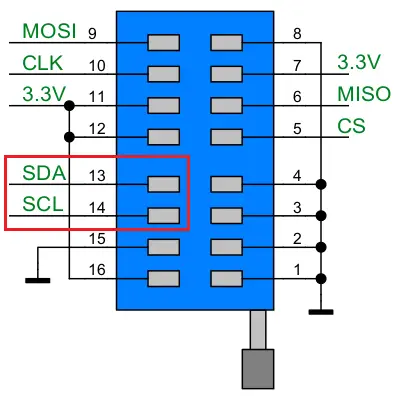
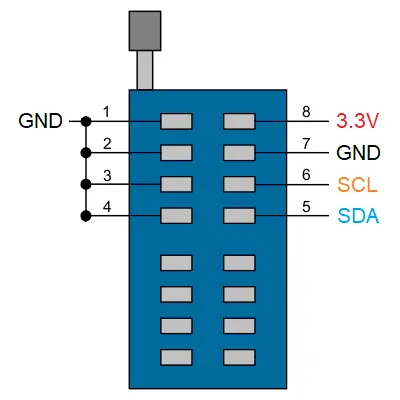
Update sigmastar-unbrick.md

diff --git a/en/sigmastar-unbrick.md b/en/sigmastar-unbrick.md
@@ -5,9 +5,9 @@ Sigmastar unbrick
 ---
 
 **Locate the Sigmastar UART output and connect it to the CH341A I2C:**
-- TX -> SDA I2C (PIN 13)
-- RX -> SCL I2C (PIN 14)
-- GND -> GND (PIN 4)
+- $\color{black}{\texttt{GND -> GND (PIN 1-4)}}$
+- $\color{deepskyblue}{\texttt{TX -> SDA I2C (PIN 5)}}$
+- $\color{orange}{\texttt{RX -> SCL I2C (PIN 6)}}$
 
 <img src="../images/sigmastar-ch341a.webp">
 <img src="../images/sigmastar-uart.webp">